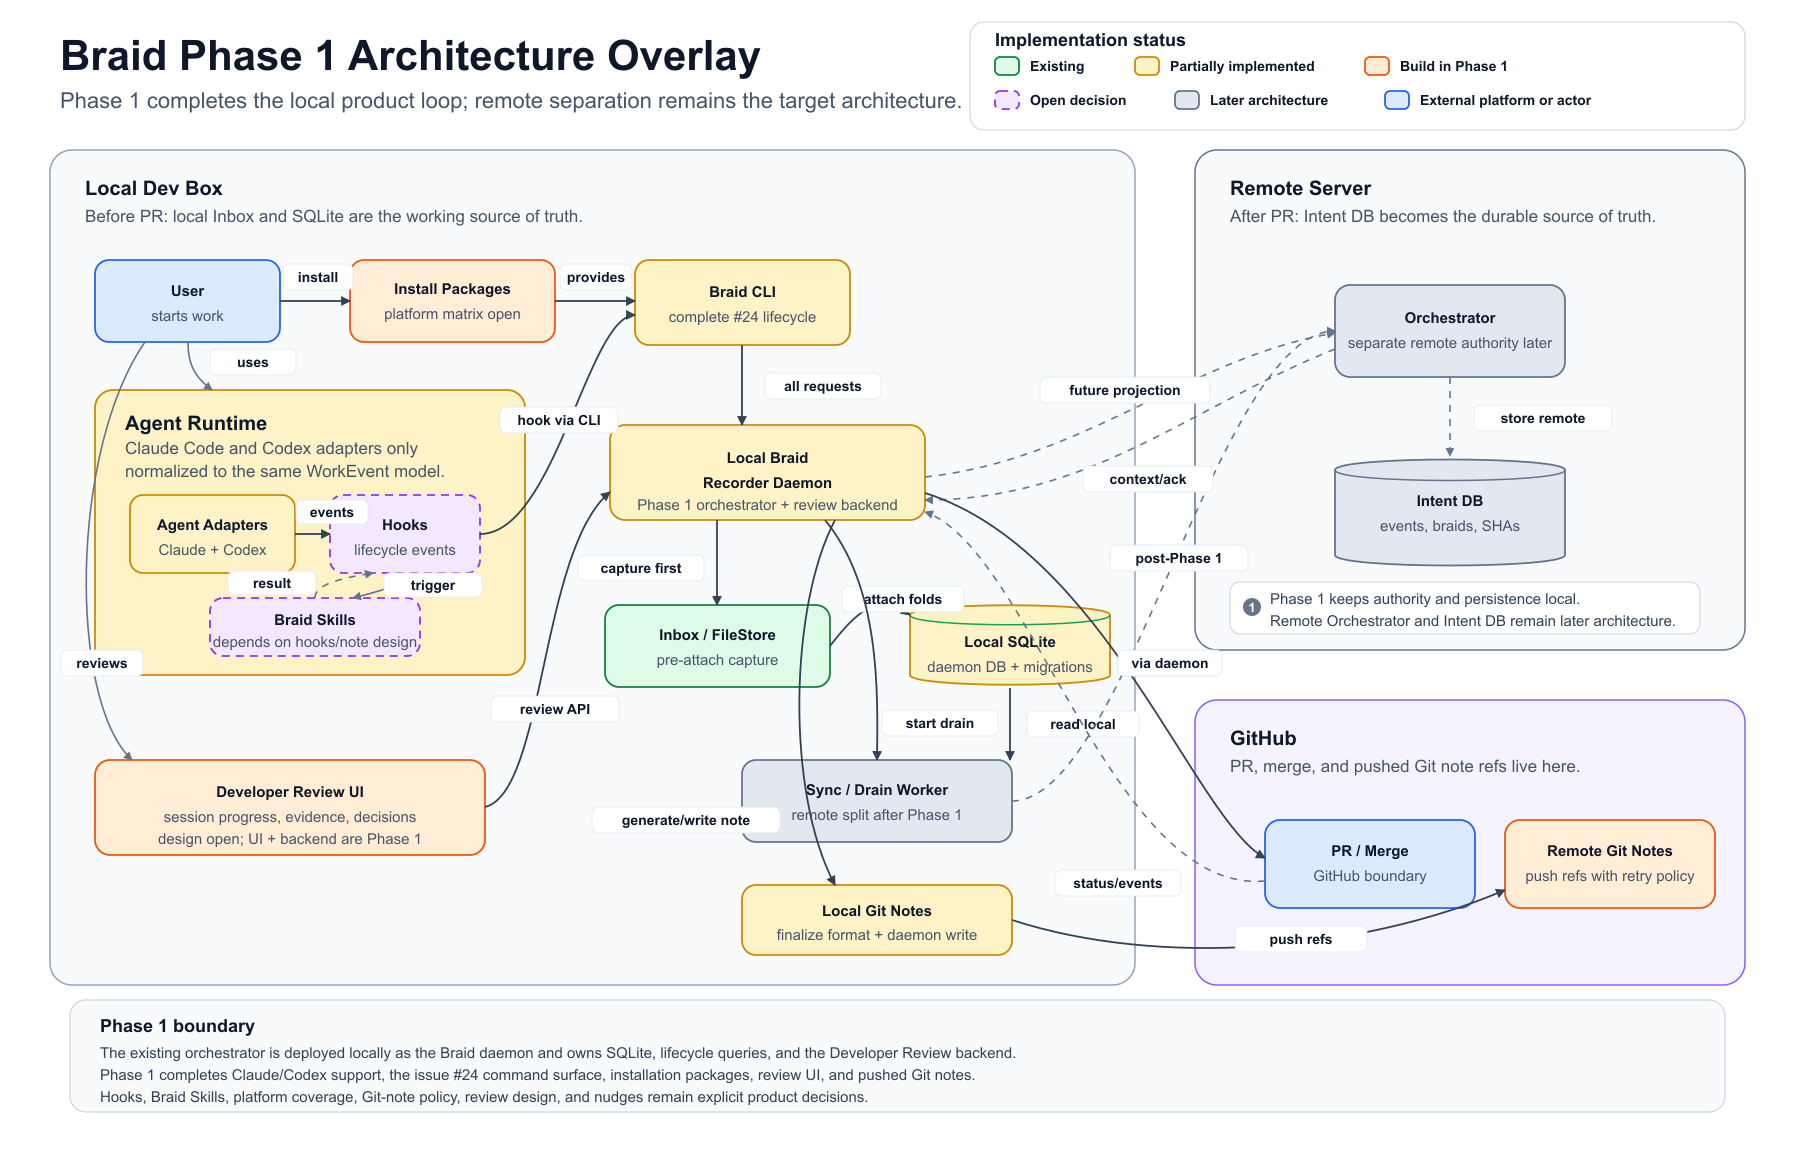
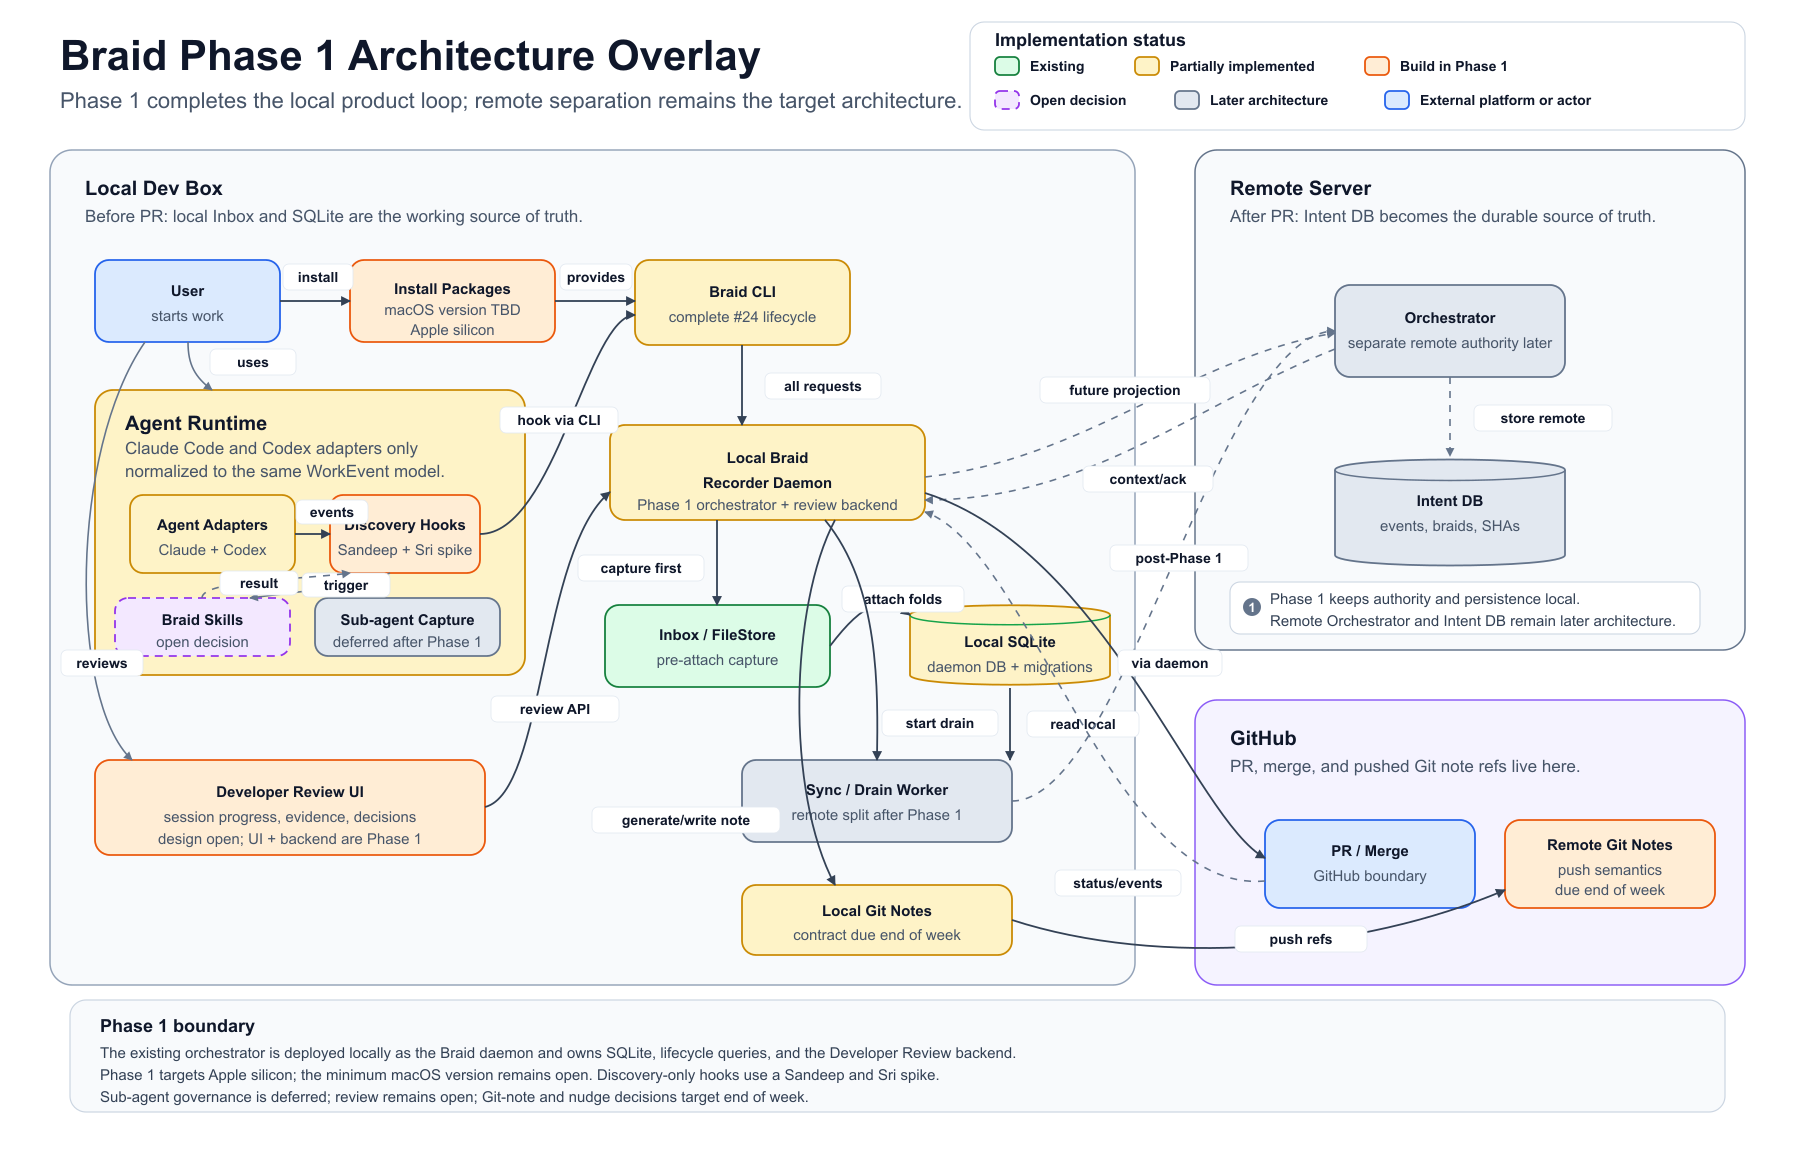
docs: record Phase 1 planning decisions

diff --git a/docs/phase-1-scope.md b/docs/phase-1-scope.md
@@ -24,17 +24,16 @@ The target architecture below is colored by implementation status. Green compone
 - The daemon owns local SQLite, lifecycle queries, and the Developer Review backend.
 - Phase 1 completes Claude Code and Codex support.
 - Phase 1 completes the issue #24 lifecycle command surface.
-- Phase 1 provides installation packages for the selected platforms.
+- Phase 1 provides an installation package for macOS on Apple silicon; the minimum supported macOS version remains to be finalized.
 - Phase 1 provides the Developer Review UI and its backend service.
 - Phase 1 generates and pushes Git notes.
-- The following remain explicit product decisions within Phase 1 planning:
-  - Claude Code and Codex hooks
-  - Sub-agent capture contract and governance
+- The following remain explicit product decisions or delivery items within Phase 1 planning:
+  - Discovery-only Claude Code and Codex hooks, validated through a Sandeep and Sri spike
   - Braid Skills
-  - Supported platform coverage
-  - Git-note format and publication policy
+  - Minimum supported macOS version
+  - Git-note format and publication policy, targeted for completion by end of week
   - Developer Review workflow and design
-  - Nudges
+  - Nudges, targeted for completion by end of week
 - The separate remote Orchestrator, Intent DB, and sync/drain architecture are deferred until after Phase 1.
 
 ## Explicitly Outside Phase 1
@@ -51,6 +50,7 @@ The following target-architecture capabilities are not included in the Phase 1 r
 - Multi-machine or organization-wide intent retrieval
 - Remote lifecycle projections
 - Agent integrations beyond Claude Code and Codex
+- Automatic or strict sub-agent capture and delegated-work governance
 - Distributed or server-managed nudges
 - Full Git-provider integrations beyond pushing Git-note refs
 - Production-scale multi-user identity, tenancy, and access control
@@ -58,7 +58,11 @@ The following target-architecture capabilities are not included in the Phase 1 r
 - Separation of the local recorder daemon from the orchestrator
 - Cross-repository and asynchronous multi-pipeline convergence infrastructure
 
-Hooks, supported platforms, Git-note policy, Developer Review design, Braid Skills, and nudges are not automatically outside Phase 1. Their inclusion is determined by the open Phase 1 product decisions.
+The protocol may continue to represent contributor lineage and delegated
+outcomes in Phase 1, but complete child-agent capture, recursive delegation
+governance, and promotion enforcement for retained sub-agent work are deferred.
+Discovery hooks, Git-note policy, Developer Review design, Braid Skills, and
+nudges remain Phase 1 work under the decisions and targets below.
 
 ## 1. Existing Foundation
 
@@ -81,14 +85,14 @@ Phase 1 must provide an installable product rather than requiring developers to 
 
 Required work:
 
-- Select the supported operating systems and architectures.
-- Build distributable packages for every supported platform.
+- Build and validate the Phase 1 package for macOS on Apple silicon.
 - Install and configure the Braid CLI.
 - Install and configure the Phase 1 Braid daemon.
 - Install any required Claude Code and Codex integrations.
 - Provide version, diagnostics, upgrade, and uninstall behavior.
 
-**Open decision:** Supported platform and architecture matrix.
+**Phase 1 platform:** macOS on Apple silicon. The minimum supported macOS
+version remains an open packaging decision.
 
 ## 3. Agent Support
 
@@ -99,7 +103,9 @@ Phase 1 supports only:
 
 Both adapters must produce the same normalized WorkEvent model and lifecycle behavior.
 
-**Open decision:** Whether Claude Code and Codex hooks are required for Phase 1.
+**Phase 1 decision:** Hooks are used only for discovery capture. Sandeep and Sri
+own a spike to validate the Claude Code and Codex behavior and finalize the
+implementation boundary.
 
 The hook decision affects:
 
@@ -109,31 +115,16 @@ The hook decision affects:
 - Automatic wrap and attach assistance
 - Detection of changed intent
 
-### Open Todo: Finalize Sub-Agent Capture
+### Deferred Beyond Phase 1: Sub-Agent Capture Governance
 
-Sub-agent capture remains an explicit Phase 1 discussion item. The current
-protocol can represent contributor lineage and delegated outcomes, but the Phase
-1 product contract must not imply that observing a parent delegation call is the
-same as capturing the child agent's work.
+Complete sub-agent capture and governance are outside the Phase 1 boundary. The
+current protocol can represent contributor lineage and delegated outcomes, but
+Phase 1 does not claim complete child lifecycle capture or automatic promotion
+authority over retained sub-agent work.
 
-Before the Phase 1 scope is finalized:
-
-- [ ] Decide whether Phase 1 requires automatic native sub-agent capture,
-      explicit Braid-owned delegation, or an advisory combination of both.
-- [ ] Define how parent-child lineage, nested delegation, resumed children, and
-      separate child thread/session identity are represented.
-- [ ] Define the minimum child lifecycle evidence required for complete capture,
-      including start, observable work events, terminal outcome, and event-drain
-      completion.
-- [ ] Decide how partial, opaque, or missing child capture affects verification,
-      review, Git-note provenance, and promotion.
-- [ ] Define how retained child artifacts and consumed research or advice are
-      attributed when work crosses back into the parent session.
-- [ ] Validate the Claude Code and Codex behavior against supported runtime
-      versions, then finalize the Phase 1 implementation and acceptance tests.
-
-**Open decision:** Final Phase 1 sub-agent capture, enforcement, degradation,
-and promotion contract.
+A later phase must finalize native versus Braid-owned delegation, nested and
+resumed child identity, minimum lifecycle evidence, degraded capture states,
+artifact and informational-influence attribution, and promotion policy.
 
 ## 4. Complete Braid Lifecycle
 
@@ -254,6 +245,9 @@ The Git-note design must settle:
 
 **Open decision:** Final Git-note contract and publication policy.
 
+**Delivery target:** Finalize the Git-note format and push semantics by end of
+week.
+
 ## 9. Nudges
 
 Phase 1 must decide which lifecycle conditions should produce developer or agent nudges.
@@ -272,20 +266,21 @@ Candidate conditions include:
 
 **Open decision:** Nudge conditions, channels, timing, recipients, and whether any nudges are blocking.
 
+**Delivery target:** Decide the Phase 1 nudge model by end of week.
+
 ## Open Decision Order
 
-The unresolved decisions should be made in this order because later decisions depend on earlier ones:
+The current decision and delivery order is:
 
 1. Freeze the issue #24 command and state-transition contract.
-2. Choose the supported platform matrix.
-3. Decide whether hooks are required.
-4. Finalize the sub-agent capture and governance contract.
+2. **Partially decided:** Support Apple silicon for Phase 1; finalize the minimum supported macOS version.
+3. **Decided:** Use hooks only for discovery; Sandeep and Sri complete the spike.
+4. **Deferred:** Finalize the sub-agent capture and governance contract after Phase 1.
 5. Finalize the review workflow and authority model.
-6. Finalize the Git-note format and push semantics.
-7. Decide the nudge model.
+6. Finalize the Git-note format and push semantics by end of week.
+7. Decide the nudge model by end of week.
 8. Freeze the Developer Review UI design.
 
-The hook decision and sub-agent capture contract should be finalized before
-nudges, Git-note provenance, promotion behavior, and the Review UI backend,
-because they determine which delegated work is visible, attributable, and safe
-to accept.
+The discovery-hook spike should complete before live progress behavior is frozen.
+The review authority decision remains upstream of final promotion behavior and
+the Developer Review UI design.